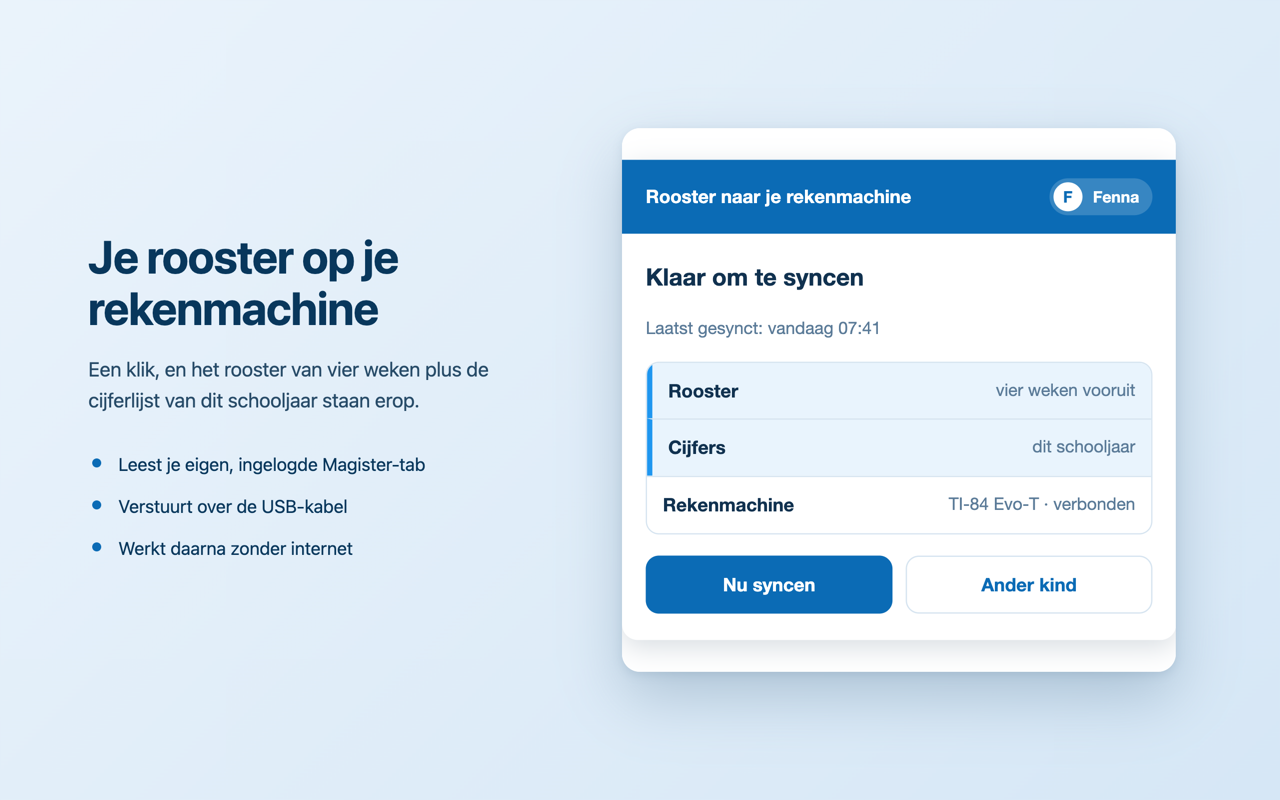
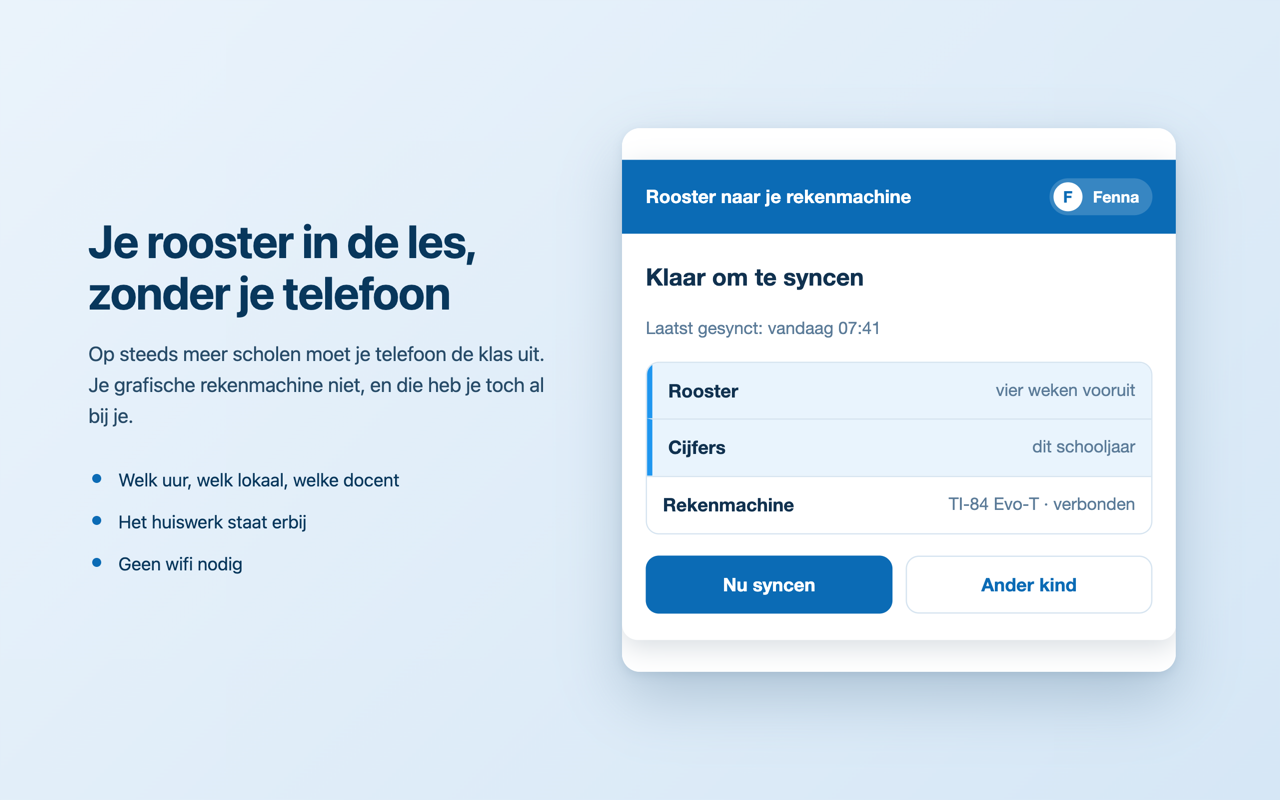
docs(store): slides die vertellen wat je eraan hebt
De teksten op de screenshots gingen over de werking en niet over de winst:
"verstuurt over de USB-kabel", "stopt netjes op een pakketgrens". Dat is waar,
maar iemand die de extensie nog niet kent leest daar niets in.

Nu staat er waarom je hem zou willen. "Op steeds meer scholen moet je telefoon
de klas uit. Je grafische rekenmachine niet, en die heb je toch al bij je."

De slide over het versturen is eruit: een voortgangsbalk is geen reden om iets
te installeren. Op die plek komt een foto van het apparaat met het rooster
erop, en schermafdruk.html kan die nu opmaken naast dezelfde tekstkolom.

Die foto moet nog gemaakt worden, en met demodata. Op een gewone sync staan de
naam van het kind, het rooster van die dag en de volledige namen van drie
docenten op dat schermpje -- in een publieke listing wereldwijd zichtbaar.
listing.md legt uit hoe je de fixture op het apparaat zet, en ruwe foto's onder
docs/store/foto-* zijn genegeerd door git zodat er nooit per ongeluk een met
echte data in de repo belandt.

Changed region(s): [[0.0625, 0.2812, 0.375, 0.4062], [0.0625, 0.5625, 0.3438, 0.7188], [0.0625, 0.4375, 0.4375, 0.5312]]

diff --git a/docs/store/schermafdruk.html b/docs/store/schermafdruk.html
@@ -2,16 +2,16 @@
 <meta charset="utf-8">
 <title>Schermafdruk voor de Web Store</title>
 <!--
-  Zet het paneel op 1280x800, de maat die de Chrome Web Store vraagt. Het
-  paneel zelf is 420 px breed; los op een frame van 1280 zou het een streepje
-  in de hoek zijn.
+  Zet het paneel of een foto op 1280x800, de maat die de Chrome Web Store
+  vraagt. Het paneel zelf is 420 px breed; los op een frame van 1280 zou het
+  een streepje in de hoek zijn.
 
   Draaien vanuit de wortel van de repo:
     python3 -m http.server 8765
     http://localhost:8765/docs/store/schermafdruk.html?scherm=klaar
 
-  De schermen zijn: kind-kiezen, klaar, bezig, gereed. Het paneel staat in de
-  demostand, dus met verzonnen namen en zonder Magister of rekenmachine.
+  De schermen staan hieronder in SCHERMEN. Het paneel draait in de demostand,
+  dus met verzonnen namen en zonder Magister of rekenmachine.
 -->
 <style>
   :root { --blauw: #0B6BB5; --diep: #08375C; }
@@ -40,45 +40,53 @@
                 0 3px 10px rgba(8, 55, 92, 0.10);
   }
   .venster iframe { display: block; border: 0; transform-origin: top left; }
+  /* Een staande foto in een liggend frame: cover snijdt de randen weg,
+     object-position bepaalt welk stuk je overhoudt. */
+  .venster img { display: block; width: 100%; height: 100%; object-fit: cover; }
 </style>
 <div class="tekst">
   <h1 id="kop"></h1>
   <p id="onder"></p>
   <ul id="punten"></ul>
 </div>
-<div class="venster" id="venster"><iframe id="paneel"></iframe></div>
+<div class="venster" id="venster"></div>
 <script>
-  // Per scherm: de kop, de regel eronder, de opsomming, en hoe hoog het
-  // paneel op dat scherm is. Die hoogte is gemeten, niet geraden -- een
-  // iframe rekt niet mee met zijn inhoud.
+  // Elk scherm is een kop, een regel eronder en drie punten. Geschreven voor
+  // iemand die de extensie nog niet kent en zich afvraagt wat hij eraan heeft
+  // -- niet voor iemand die wil weten hoe hij werkt.
   const SCHERMEN = {
     klaar: {
-      kop: 'Je rooster op je rekenmachine',
-      onder: 'Een klik, en het rooster van vier weken plus de cijferlijst van '
-        + 'dit schooljaar staan erop.',
-      punten: ['Leest je eigen, ingelogde Magister-tab',
-        'Verstuurt over de USB-kabel', 'Werkt daarna zonder internet'],
+      kop: 'Je rooster in de les, zonder je telefoon',
+      onder: 'Op steeds meer scholen moet je telefoon de klas uit. Je grafische '
+        + 'rekenmachine niet, en die heb je toch al bij je.',
+      punten: ['Welk uur, welk lokaal, welke docent',
+        'Het huiswerk staat erbij', 'Geen wifi nodig'],
     },
-    'kind-kiezen': {
-      kop: 'Voor wie is deze rekenmachine?',
-      onder: 'Heb je als ouder meer dan een kind, dan kies je er hier een. '
-        + 'Die keuze wordt onthouden.',
-      punten: ['Eenmalig kiezen', 'Per rekenmachine een kind',
-        'Later te wijzigen met een knop'],
-    },
-    bezig: {
-      kop: 'Versturen duurt een paar tellen',
-      onder: 'De app en de gegevens gaan als twee programma’s naar het '
-        + 'apparaat, met een voortgangsbalk erbij.',
-      punten: ['Afbreken kan altijd', 'Stopt netjes op een pakketgrens',
-        'Geen half programma op het apparaat'],
+    foto: {
+      kop: 'Zo staat het op je scherm',
+      onder: 'Aanzetten en je dag staat er. Geen menu’s, geen laadtijd, geen '
+        + 'internet.',
+      punten: ['Bladeren met de pijltjes',
+        'ENTER voor het huiswerk bij een les', '2 voor je cijfers'],
+      foto: 'foto-apparaat.jpg',
+      // Welk stuk van de staande foto in beeld blijft.
+      uitsnede: 'center 44%',
     },
     gereed: {
-      kop: 'Klaar, met een samenvatting',
-      onder: 'Hoeveel lessen en cijfers erop staan, en tot welke dag het '
-        + 'rooster reikt.',
-      punten: ['Rooster van vier weken', 'Cijfers van dit schooljaar',
-        'Huiswerk en mededelingen per les'],
+      kop: 'Vier weken vooruit, en al je cijfers',
+      onder: 'Een klik en een paar tellen later staat alles erop. Daarna werkt '
+        + 'het de hele dag zonder internet.',
+      punten: ['Uitval en wijzigingen zie je meteen',
+        'Cijfers per vak, met het gemiddelde',
+        'Blijft staan tot je opnieuw synct'],
+    },
+    'kind-kiezen': {
+      kop: 'Twee kinderen, twee rekenmachines',
+      onder: 'Log in met je eigen ouderaccount en kies wie deze rekenmachine '
+        + 'krijgt. Dat hoef je maar een keer te doen.',
+      punten: ['Werkt net zo goed op een leerlingaccount',
+        'Je hoeft nergens opnieuw in te loggen',
+        'Alleen dat kind gaat mee de kabel in'],
     },
   };
 
@@ -91,21 +99,32 @@
   document.getElementById('punten').innerHTML =
     s.punten.map((p) => `<li>${p}</li>`).join('');
 
-  const paneel = document.getElementById('paneel');
   const venster = document.getElementById('venster');
-  venster.style.width = `${Math.round(420 * SCHAAL)}px`;
-  paneel.width = 420;
-  paneel.style.transform = `scale(${SCHAAL})`;
 
-  // De hoogte per scherm meten in plaats van hem hier op te schrijven: een
-  // opgeschreven hoogte loopt achter zodra er een regel tekst bij komt, en dat
-  // zie je pas terug als een strook leegte onder de knoppen.
-  paneel.addEventListener('load', () => {
-    const doc = paneel.contentDocument;
-    const hoog = Math.ceil(doc.documentElement.getBoundingClientRect().height);
-    paneel.height = hoog;
-    venster.style.height = `${Math.round(hoog * SCHAAL)}px`;
-    document.title = `klaar: ${naam} (${hoog}px)`;
-  });
-  paneel.src = `/extension/panel.html?scherm=${encodeURIComponent(naam)}`;
+  if (s.foto) {
+    venster.style.width = '520px';
+    venster.style.height = '620px';
+    const img = document.createElement('img');
+    img.style.objectPosition = s.uitsnede || 'center';
+    img.addEventListener('load', () => { document.title = `klaar: ${naam}`; });
+    img.src = s.foto;
+    venster.append(img);
+  } else {
+    const paneel = document.createElement('iframe');
+    venster.style.width = `${Math.round(420 * SCHAAL)}px`;
+    paneel.width = 420;
+    paneel.style.transform = `scale(${SCHAAL})`;
+    // De hoogte per scherm meten in plaats van hem hier op te schrijven: een
+    // opgeschreven hoogte loopt achter zodra er een regel tekst bij komt, en
+    // dat zie je pas terug als een strook leegte onder de knoppen.
+    paneel.addEventListener('load', () => {
+      const doc = paneel.contentDocument;
+      const hoog = Math.ceil(doc.documentElement.getBoundingClientRect().height);
+      paneel.height = hoog;
+      venster.style.height = `${Math.round(hoog * SCHAAL)}px`;
+      document.title = `klaar: ${naam} (${hoog}px)`;
+    });
+    paneel.src = `/extension/panel.html?scherm=${encodeURIComponent(naam)}`;
+    venster.append(paneel);
+  }
 </script>

diff --git a/docs/store/listing.md b/docs/store/listing.md
@@ -162,17 +162,30 @@ Full source: https://github.com/henkm/magister-84-evo
 | --- | --- | --- |
 | Pictogram | 128x128 PNG | `extension/icons/icon-128.png` |
 | Screenshot 1 | 1280x800 | `screenshots/1-klaar.png` |
-| Screenshot 2 | 1280x800 | `screenshots/2-kind-kiezen.png` |
+| Screenshot 2 | 1280x800 | `screenshots/2-op-het-apparaat.png` -- **nog te maken** |
 | Screenshot 3 | 1280x800 | `screenshots/3-gereed.png` |
-| Screenshot 4 | 1280x800 | `screenshots/4-bezig.png` |
+| Screenshot 4 | 1280x800 | `screenshots/4-kind-kiezen.png` |
 | Kleine promotietegel | 440x280, optioneel | nog niet gemaakt |
 
-De vier screenshots komen uit de demostand van het paneel, dus met de verzonnen
+De screenshots van het paneel komen uit de demostand, dus met de verzonnen
 namen Fenna en Sem en zonder een echte Magister-sessie.
 
-Er hoort er nog een bij, en dat is de belangrijkste: een foto van de
-rekenmachine met het rooster erop. Dat is het beeld dat vertelt waar dit over
-gaat, en dat kan alleen een foto zijn.
+Nummer 2 is de belangrijkste en de enige die nog moet: een foto van de
+rekenmachine met het rooster erop. Dat beeld vertelt waar dit over gaat, en
+het kan alleen een foto zijn.
+
+**Let op wat er op dat schermpje staat.** Een foto van een gewone sync toont
+de naam van je kind, haar rooster van die dag en de volledige namen van haar
+docenten -- in een publieke listing wereldwijd zichtbaar. Zet daarom eerst de
+demodata op het apparaat, en fotografeer dat:
+
+```bash
+python3 -m tools.evosend MAGDATA calc/MAGDATA.py
+```
+
+Daarna zet je met de extensie gewoon weer je eigen data terug. Leg de foto
+neer als `docs/store/foto-apparaat.jpg` (ruwe foto's daar zijn genegeerd door
+git, juist hierom) en maak de slide met `?scherm=foto`.
 
 **Opnieuw maken.** Vanuit de wortel van de repo:
 
@@ -181,8 +194,8 @@ python3 -m http.server 8765
 ```
 
 Open dan `http://localhost:8765/docs/store/schermafdruk.html?scherm=klaar` in
-een venster van 1280x800 en maak een schermafdruk; herhaal voor `kind-kiezen`,
-`gereed` en `bezig`. Op een scherm met dubbele pixeldichtheid komt er 2560x1600
+een venster van 1280x800 en maak een schermafdruk; herhaal voor `foto`,
+`gereed` en `kind-kiezen`. Op een scherm met dubbele pixeldichtheid komt er 2560x1600
 uit; terugbrengen met:
 
 ```bash
